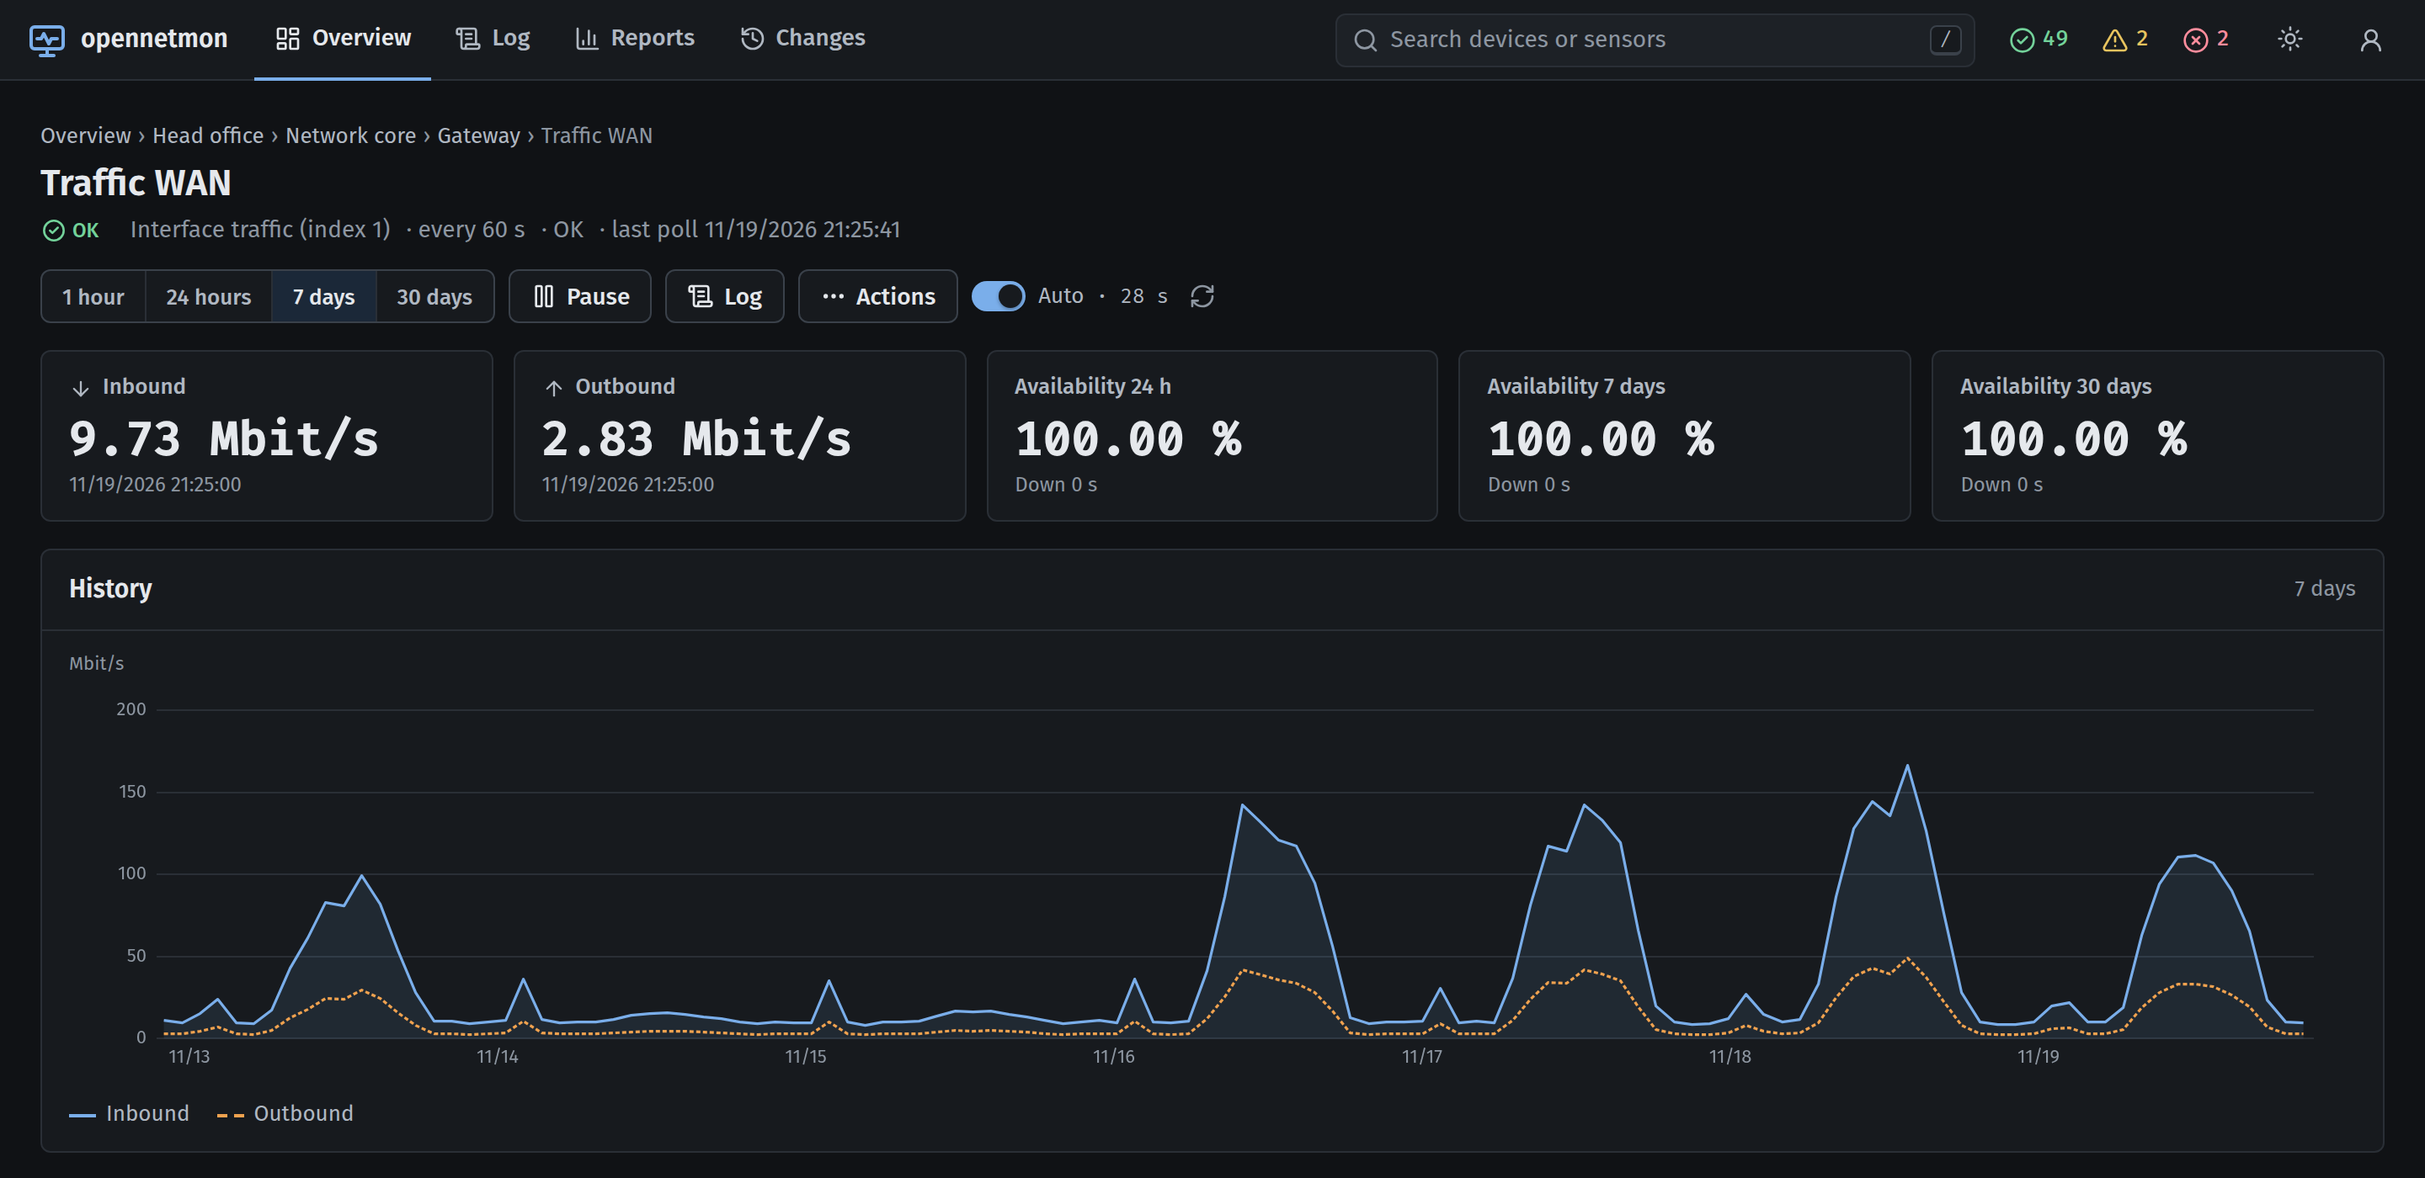
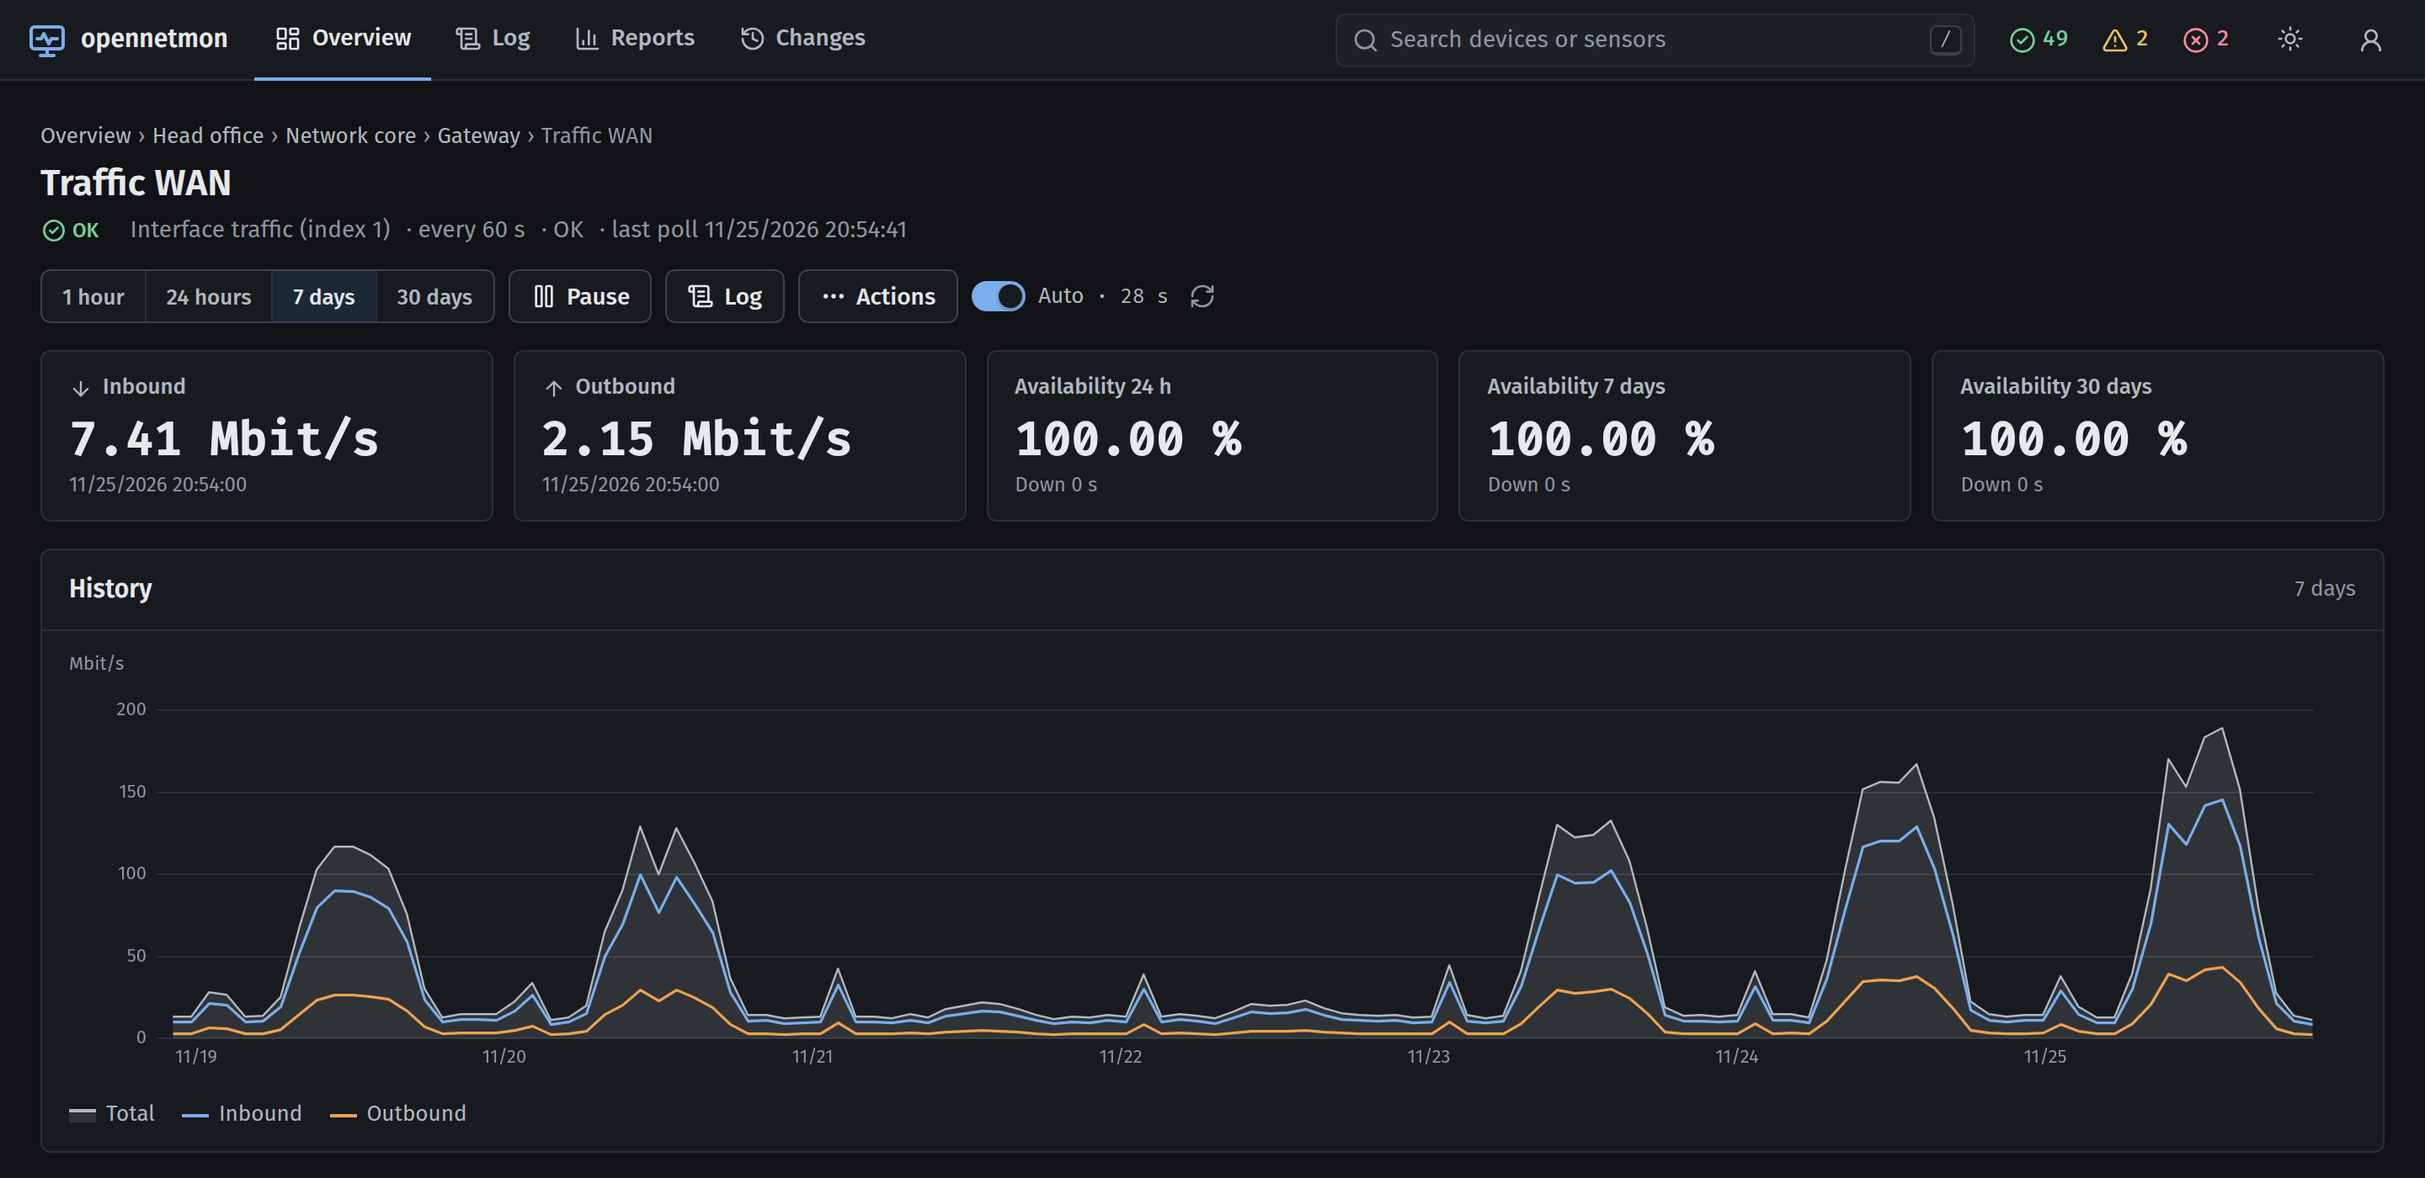
Draw solid chart lines and a shaded total for traffic sensors
All channels of the sensor chart are now solid lines in their colours;
only the first channel had an area and the others were dashed. Sensors
with the channels in and out in bit/s get a derived series "total"
(in + out) in the chart data, drawn as a grey shaded area behind the two
lines as in PRTG and toggled in the legend like any channel. It is
computed for the chart only, so it also covers the past. The README
screenshots of the sensor page show the new look.

Claude-Session: https://claude.ai/code/session_01RtEj5f19mMfgmNxhbdJ47Z

diff --git a/static/chart.js b/static/chart.js
@@ -1,6 +1,7 @@
-// Draws the chart of the sensor detail page with uPlot, as in the draft: the unit once above each axis,
-// horizontal grid lines only, the first channel with a light area and the others dashed, outages tinted
-// red, a legend below and a tooltip at the cursor. Channels of a second unit get an axis on the right
+// Draws the chart of the sensor detail page with uPlot: the unit once above each axis, horizontal grid
+// lines only, solid lines in the colours of the channels, outages tinted red, a legend below and a tooltip
+// at the cursor. Traffic sensors also get their total (in + out, from the server, `area`) as a grey shaded
+// area behind the two lines, as in PRTG. Channels of a second unit get an axis on the right
 // (ping: packet loss as red bars). A click on a legend entry hides or shows its channel; the choice holds
 // over the reloads of the tab (sessionStorage, per sensor). Sensors with status values only
 // (#charts[data-band]) get a band of their status over the range instead. Data comes from the JSON
@@ -137,6 +138,7 @@
   // One chart for up to two units: the first on the left axis, the second on the right.
   function buildChart(data, rows, units) {
     var palette = [css('--s1'), css('--s2'), css('--s3'), css('--s4')];
+    var total = css('--s-total'), totalFill = css('--s-total-fill');
     var err = css('--err'), text3 = css('--text-3'), border = css('--border');
     var font = '11px ' + (css('--font-sans') || 'sans-serif');
     var box = el('div', 'chart');
@@ -152,7 +154,7 @@
       stroke: text3, font: font, grid: { show: false }, ticks: { show: false }, values: xValues, gap: 6, size: 28,
       space: function (u, i, min, max, dim) { return Math.max(80, dim / 7); }
     }];
-    var shown = [];
+    var shown = [], lines = 0;
     units.forEach(function (unit, side) {
       var scale = side ? 'y2' : 'y';
       var list = data.series.map(function (s, i) { return { s: s, values: rows.cols[i] }; })
@@ -176,9 +178,12 @@
           : function (u, vals) { return vals.map(function (v) { return F.num(v / ax.div, 3); }); }
       });
       list.forEach(function (x) {
-        var n = shown.length, color = loss ? err : palette[n % palette.length];
+        // The total keeps the colours of the channels as they were (in blue, out orange).
+        var area = !!x.s.area && !loss && !state, n = lines;
+        if (!area && !loss) { lines += 1; }
+        var color = loss ? err : area ? total : palette[n % palette.length];
         var opts = {
-          label: x.s.label, scale: scale, stroke: color, width: 1.6, spanGaps: false,
+          label: x.s.label, scale: scale, stroke: color, width: area ? 1.2 : 1.6, spanGaps: false,
           points: { show: false }, show: hidden.indexOf(x.s.key) < 0
         };
         if (loss) {
@@ -186,15 +191,13 @@
           opts.paths = uPlot.paths.bars({ size: [0.7, 12] });
         } else if (state) {
           opts.paths = uPlot.paths.stepped({ align: 1 });
-        } else if (n === 0) {
-          opts.fill = color + '1a';
-        } else {
-          opts.dash = [5, 3];
+        } else if (area) {
+          opts.fill = totalFill;
         }
         series.push(opts);
         // Ping: no bar where nothing was lost.
         columns.push(loss ? x.values.map(function (v) { return v === 0 ? null : v; }) : x.values);
-        shown.push({ s: x.s, format: F.forSeries(x.s), cls: loss ? 'loss' : 'lg-' + (n % 4 + 1) + (n && !state ? ' dash' : '') });
+        shown.push({ s: x.s, format: F.forSeries(x.s), cls: loss ? 'loss' : area ? 'total' : 'lg-' + (n % 4 + 1) });
       });
     });
     var buttons = shown.map(function (x) {

diff --git a/static/app.css b/static/app.css
@@ -55,6 +55,8 @@
   --s2: #b45309;
   --s3: #6d28d9;
   --s4: #0f766e;
+  --s-total: #444d59;
+  --s-total-fill: rgba(68, 77, 89, .14);
   --shadow-1: 0 1px 2px rgba(16, 24, 32, .06);
   --shadow-2: 0 8px 28px rgba(16, 24, 32, .16), 0 1px 3px rgba(16, 24, 32, .08);
 
@@ -102,6 +104,8 @@
   --s2: #f0a24f;
   --s3: #b69cf5;
   --s4: #5fd0c0;
+  --s-total: #b0b8c2;
+  --s-total-fill: rgba(176, 184, 194, .16);
   --shadow-1: 0 1px 2px rgba(0, 0, 0, .3);
   --shadow-2: 0 10px 32px rgba(0, 0, 0, .5), 0 1px 3px rgba(0, 0, 0, .4);
 }
@@ -133,6 +137,8 @@
     --s2: #f0a24f;
     --s3: #b69cf5;
     --s4: #5fd0c0;
+    --s-total: #b0b8c2;
+    --s-total-fill: rgba(176, 184, 194, .16);
     --shadow-1: 0 1px 2px rgba(0, 0, 0, .3);
     --shadow-2: 0 10px 32px rgba(0, 0, 0, .5), 0 1px 3px rgba(0, 0, 0, .4);
   }
@@ -484,7 +490,7 @@ form.inline-note .muted { font-size: .85rem; }
 .chart-legend .lg-2 { border-top-color: var(--s2); }
 .chart-legend .lg-3 { border-top-color: var(--s3); }
 .chart-legend .lg-4 { border-top-color: var(--s4); }
-.chart-legend .dash { border-top-style: dashed; }
+.chart-legend .total { height: 8px; border-top-color: var(--s-total); background: var(--s-total-fill); }
 .chart-legend .loss, .chart-legend [class*="st-"] { width: 12px; height: 10px; border: 0; border-radius: 2px; }
 .chart-legend .loss { background: color-mix(in srgb, var(--err) 45%, transparent); }
 .chart-legend .st-up { background: color-mix(in srgb, var(--ok) 55%, transparent); }

diff --git a/src/web/sensor_detail.rs b/src/web/sensor_detail.rs
@@ -463,6 +463,8 @@ struct SeriesJson {
     unit: &'static str,
     /// A channel the table of values hides on phones (ping: minimum, maximum, jitter).
     minor: bool,
+    /// Drawn as a shaded area behind the lines (the traffic total, see [`traffic_total`]).
+    area: bool,
     values: Vec<Option<f64>>,
 }
 
@@ -502,7 +504,16 @@ pub async fn data(
     let (sensor, device) = load(&state, id).await?;
     let range = query.range();
     let now = now_ms();
-    let chart = chart_data(&state.pool, &sensor.channels, range, now).await?;
+    let mut chart = chart_data(&state.pool, &sensor.channels, range, now).await?;
+    let total = traffic_total(&chart.series);
+    let has_total = total.is_some();
+    if let Some(total) = total {
+        chart.series.insert(0, total);
+    }
+    let mut series = series_json(&state, &sensor, user.lang, chart.series);
+    if has_total {
+        series[0].area = true;
+    }
     let from = now - range.duration_ms();
     let (start, changes) = status_store::status_history(&state.pool, sensor.id, from).await?;
     let periods = crate::web::sparkline::periods(start, &changes, from, now)
@@ -522,8 +533,36 @@ pub async fn data(
         step_secs: range.step_secs(),
         interval_secs: sensor.interval(device.polling.interval_secs),
         ts: chart.ts,
-        series: series_json(&state, &sensor, user.lang, chart.series),
+        series,
     }))
+}
+
+/// Key of the traffic total in the chart data; its label is `channel-total` ("Gesamt").
+const TOTAL_KEY: &str = "total";
+
+/// The sum of inbound and outbound traffic, for sensors with the channels `in` and `out` in bit/s
+/// (interface traffic over SNMP, this server, FRITZ!Box, Huawei). As in PRTG the chart shows it as a
+/// shaded area behind the two lines. It is derived for the chart only and never stored; it covers the
+/// past as well, since the sum of hourly averages is the average of the sums. A gap where either value
+/// is missing.
+fn traffic_total(series: &[ChartSeries]) -> Option<ChartSeries> {
+    let find = |key: &str| {
+        series
+            .iter()
+            .find(|s| s.key == key && s.unit == Unit::BitsPerSecond)
+    };
+    let (inbound, outbound) = (find("in")?, find("out")?);
+    let values = inbound
+        .values
+        .iter()
+        .zip(&outbound.values)
+        .map(|(a, b)| Some((*a)? + (*b)?))
+        .collect();
+    Some(ChartSeries {
+        key: TOTAL_KEY.to_owned(),
+        unit: Unit::BitsPerSecond,
+        values,
+    })
 }
 
 fn series_json(
@@ -541,6 +580,7 @@ fn series_json(
             labels: value_format.labels.clone(),
             unit: s.unit.as_str(),
             minor: sensor.spec.minor(&s.key),
+            area: false,
             key: s.key,
             values: s.values,
         })
@@ -1075,6 +1115,32 @@ mod tests {
         );
     }
 
+    #[test]
+    fn the_traffic_total_sums_in_and_out_with_gaps() {
+        let s = |key: &str, unit, values| ChartSeries {
+            key: key.to_owned(),
+            unit,
+            values,
+        };
+        let series = [
+            s("in", Unit::BitsPerSecond, vec![Some(1.0), None, Some(2.0)]),
+            s("out", Unit::BitsPerSecond, vec![Some(3.0), Some(4.0), None]),
+        ];
+        let total = traffic_total(&series).unwrap();
+        assert_eq!(total.key, "total");
+        assert_eq!(total.unit, Unit::BitsPerSecond);
+        assert_eq!(total.values, [Some(4.0), None, None]);
+        // Only both channels in bit/s make a total.
+        assert!(traffic_total(&series[..1]).is_none());
+        assert!(
+            traffic_total(&[
+                s("in", Unit::Percent, vec![Some(1.0)]),
+                s("out", Unit::Percent, vec![Some(1.0)]),
+            ])
+            .is_none()
+        );
+    }
+
     #[tokio::test]
     async fn the_json_endpoint_serves_aligned_series() {
         let h = harness(true).await;
@@ -1094,6 +1160,15 @@ mod tests {
         );
         let body = &reply.body;
         assert!(body.contains("\"range\":\"1h\""), "{body}");
+        // The traffic total first, as a shaded area: 12.5 Mbit/s in plus 3 kbit/s out.
+        let json: serde_json::Value = serde_json::from_str(body).unwrap();
+        let series = json["series"].as_array().unwrap();
+        assert_eq!(series.len(), 3, "{body}");
+        assert_eq!(series[0]["key"], "total");
+        assert_eq!(series[0]["label"], "Gesamt");
+        assert_eq!(series[0]["area"], true);
+        assert_eq!(series[1]["area"], false);
+        assert!(body.contains("12503000.0"), "{body}");
         assert!(
             body.contains("\"label\":\"Eingehend\"") && body.contains("\"unit\":\"bps\""),
             "{body}"

diff --git a/ARCHITEKTUR.md b/ARCHITEKTUR.md
@@ -259,7 +259,7 @@ Ein Binary, ein Prozess, Module:
   Extractor `CurrentUser`; POST-Handler prüfen `verify_csrf`, Admin-Handler `require_admin`), Startseite als Gruppenbaum
   (`web::overview`: Gruppen mit Sprungmarke `#group-<id>`; ein Baum wie in PRTG mit Linien und Pfeil zum Auf- und Zuklappen, Untergruppen als `Row::Start`/`End` verschachtelt mit Summen über den Teilbaum, Zähler je Zustand nur als Symbol und Zahl direkt vor den Aktionen (`Counts::pills`, Zustandsname nur für Screenreader), aufklappbar, Zustand in `localStorage` über `static/app.js`; Baum-Makros gemeinsam in `templates/tree.html`), Gruppenseite `/groups/<id>`
   (`overview::group`, `templates/group.html`: Teilbaum, Kacheln mit `/status/<filter>?group=<id>`, Aktionen; Ziel des Gruppennamens im Baum und der Pfadleiste
-  `web::group_trail`/`device_trail.html` auf Geräte-, Sensor- und Gruppenseiten; Formulare kehren mit `back=group-<id>` zurück, `web::back_to_group`), Gruppen-, Geräte-, Profil- und Benutzerseiten (`web::groups`, `web::devices`, `web::credentials`, `web::users`: letzter Admin geschützt, eigenes Konto nicht löschbar, Passwortwechsel beendet die übrigen Sitzungen, Sprache je Benutzer; `web::account` „Mein Konto“ für alle: eigene Sprache, eigenes Passwort mit dem bisherigen, Fehlversuche über `login_throttle`), Sensorseiten mit Discovery und Mini-Graphen der letzten Stunde (`web::sensors`, `web::sparkline`: Linien bzw. Statusband als SVG), Detailseite mit JSON-Endpoint für uPlot (ohne Formulare außer Löschen; seit Schritt 4 von Vorhaben P wie im Entwurf: Karte „Verlauf“, ein Graph für bis zu zwei Einheiten mit zweiter Achse rechts (Ping: Verlust als Balken), Einheit über der Achse (`opennetmonFormat.axis`), vier runde Schritte ab 0 (Stufen 1, 1,2, 1,5 … 10; die Spitze füllt mindestens drei Viertel der Höhe), Ausfälle rot hinterlegt aus `periods` (Statuswechsel über `sparkline::periods`), eigene Legende (Einträge als Knöpfe zum Aus- und Einblenden, gemerkt in `sessionStorage` je Sensor) und Hinweiskasten statt der uPlot-Legende; reine Statussensoren als Band „Zustand im Zeitraum“ (`data-band`)), Tabelle „Messwerte“ wie die PRTG-Livedaten (`static/samples.js`, immer Rohwerte über `/sensors/<id>/samples`, `storage::measurements::recent_samples`; Abfragen mit Warnung/Ausfall aus `poll_problems` (Migration `0023`, von `record_poll`) als rot/gelb gefärbte Zeilen, ohne Werte mit Meldung; in Seiten zu 50/100/250 Zeilen (`#samples-rows`, `#samples-pager`), Zusammenfassung über den ganzen Zeitraum, gezeigte Seite übersteht das Neuladen per `sessionStorage`; `web::sensor_detail`); Statuslisten hinter den Kacheln der Übersicht
+  `web::group_trail`/`device_trail.html` auf Geräte-, Sensor- und Gruppenseiten; Formulare kehren mit `back=group-<id>` zurück, `web::back_to_group`), Gruppen-, Geräte-, Profil- und Benutzerseiten (`web::groups`, `web::devices`, `web::credentials`, `web::users`: letzter Admin geschützt, eigenes Konto nicht löschbar, Passwortwechsel beendet die übrigen Sitzungen, Sprache je Benutzer; `web::account` „Mein Konto“ für alle: eigene Sprache, eigenes Passwort mit dem bisherigen, Fehlversuche über `login_throttle`), Sensorseiten mit Discovery und Mini-Graphen der letzten Stunde (`web::sensors`, `web::sparkline`: Linien bzw. Statusband als SVG), Detailseite mit JSON-Endpoint für uPlot (ohne Formulare außer Löschen; seit Schritt 4 von Vorhaben P wie im Entwurf: Karte „Verlauf“, ein Graph für bis zu zwei Einheiten mit zweiter Achse rechts (Ping: Verlust als Balken), Einheit über der Achse (`opennetmonFormat.axis`), vier runde Schritte ab 0 (Stufen 1, 1,2, 1,5 … 10; die Spitze füllt mindestens drei Viertel der Höhe), Ausfälle rot hinterlegt aus `periods` (Statuswechsel über `sparkline::periods`), eigene Legende (Einträge als Knöpfe zum Aus- und Einblenden, gemerkt in `sessionStorage` je Sensor) und Hinweiskasten statt der uPlot-Legende; seit Vorhaben S alle Linien durchgezogen, bei Sensoren mit `in`/`out` in bit/s zusätzlich die abgeleitete Reihe `total` (in + out, `sensor_detail::traffic_total`, nur im JSON, nicht gespeichert, `area: true`) als graue Fläche hinter den Linien, Farben `--s-total`/`--s-total-fill`; reine Statussensoren als Band „Zustand im Zeitraum“ (`data-band`)), Tabelle „Messwerte“ wie die PRTG-Livedaten (`static/samples.js`, immer Rohwerte über `/sensors/<id>/samples`, `storage::measurements::recent_samples`; Abfragen mit Warnung/Ausfall aus `poll_problems` (Migration `0023`, von `record_poll`) als rot/gelb gefärbte Zeilen, ohne Werte mit Meldung; in Seiten zu 50/100/250 Zeilen (`#samples-rows`, `#samples-pager`), Zusammenfassung über den ganzen Zeitraum, gezeigte Seite übersteht das Neuladen per `sessionStorage`; `web::sensor_detail`); Statuslisten hinter den Kacheln der Übersicht
   (`web::status_list`, `/status/all|up|warning|down|inactive`, sortierbar per Spaltenkopf `?sort=…&dir=…`, Suche `?q=` über Sensor, Gerät, Adresse, Gruppe und Meldung (alle Wörter, höchstens `MAX_SEARCH_CHARS` = 100), aktuelle Werte über `web::sensors::fresh_values`); oben rechts auf Übersicht, Statuslisten, Sensor- und Detailseite „Aktualisieren“ mit
   „Automatisch“ (alle 30 s wie PRTG, pausiert bei Eingaben; `templates/refresh.html`, `static/refresh.js`); Protokoll `/log` (`web::log`: sortierbar per Spaltenkopf wie die Statuslisten, Suchfeld über `static/table-filter.js`, `?device=<id>`/`?sensor=<id>` über den
   Knopf „Protokoll“ der Geräte- und Sensorseite; Warnungen, Ausfälle und

diff --git a/docs/sensors.md b/docs/sensors.md
@@ -18,6 +18,10 @@ All sensor types implement the trait `Sensor` (`src/sensors/mod.rs`); the poller
 
 Traffic rates are in bit/s (octets × 8). A poll needs exactly one SNMP GET per sensor; counters also fetch `sysUpTime`.
 
+The chart of every sensor with the channels `in` and `out` in bit/s (interface traffic, network traffic of this server, FRITZ!Box,
+Huawei) also shows **Total** (in + out) as a grey shaded area behind the two lines, as in PRTG. It is computed for the chart only (not
+stored, so it covers the past as well) and can be hidden with a click on its legend entry like any channel. All lines are solid.
+
 ## This server (`src/sensors/local.rs`, page `web::server_values`)
 
 Sensors for the machine opennetmon itself runs on – without `snmpd`, without credentials, read-only. What is measured is stored in the column
